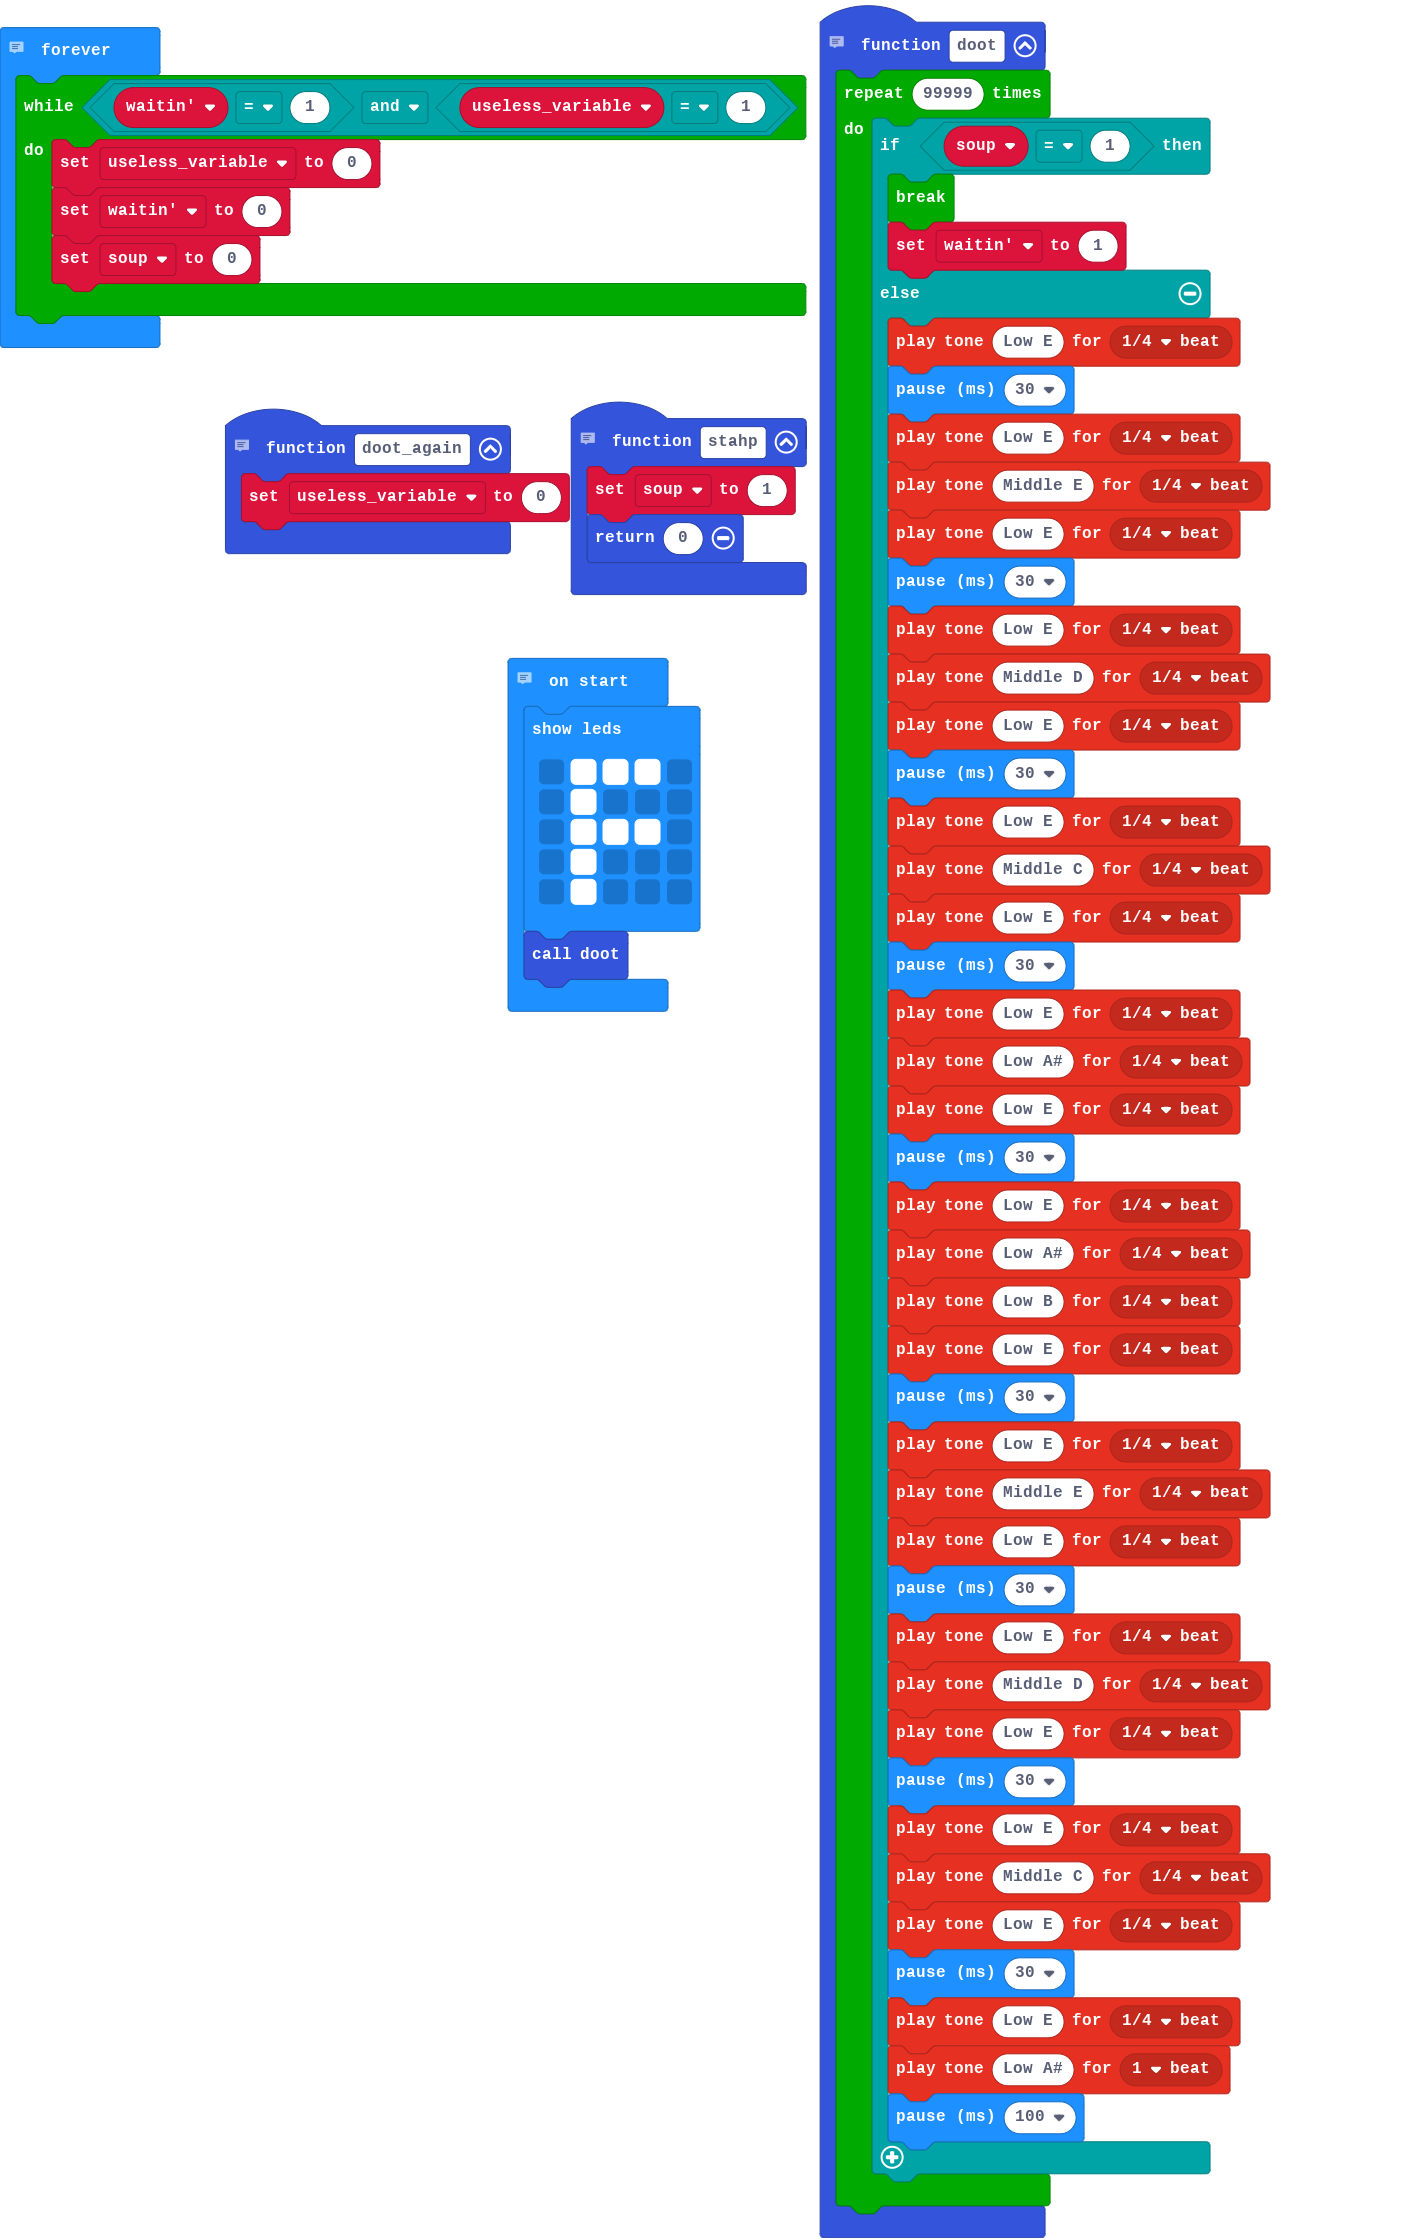
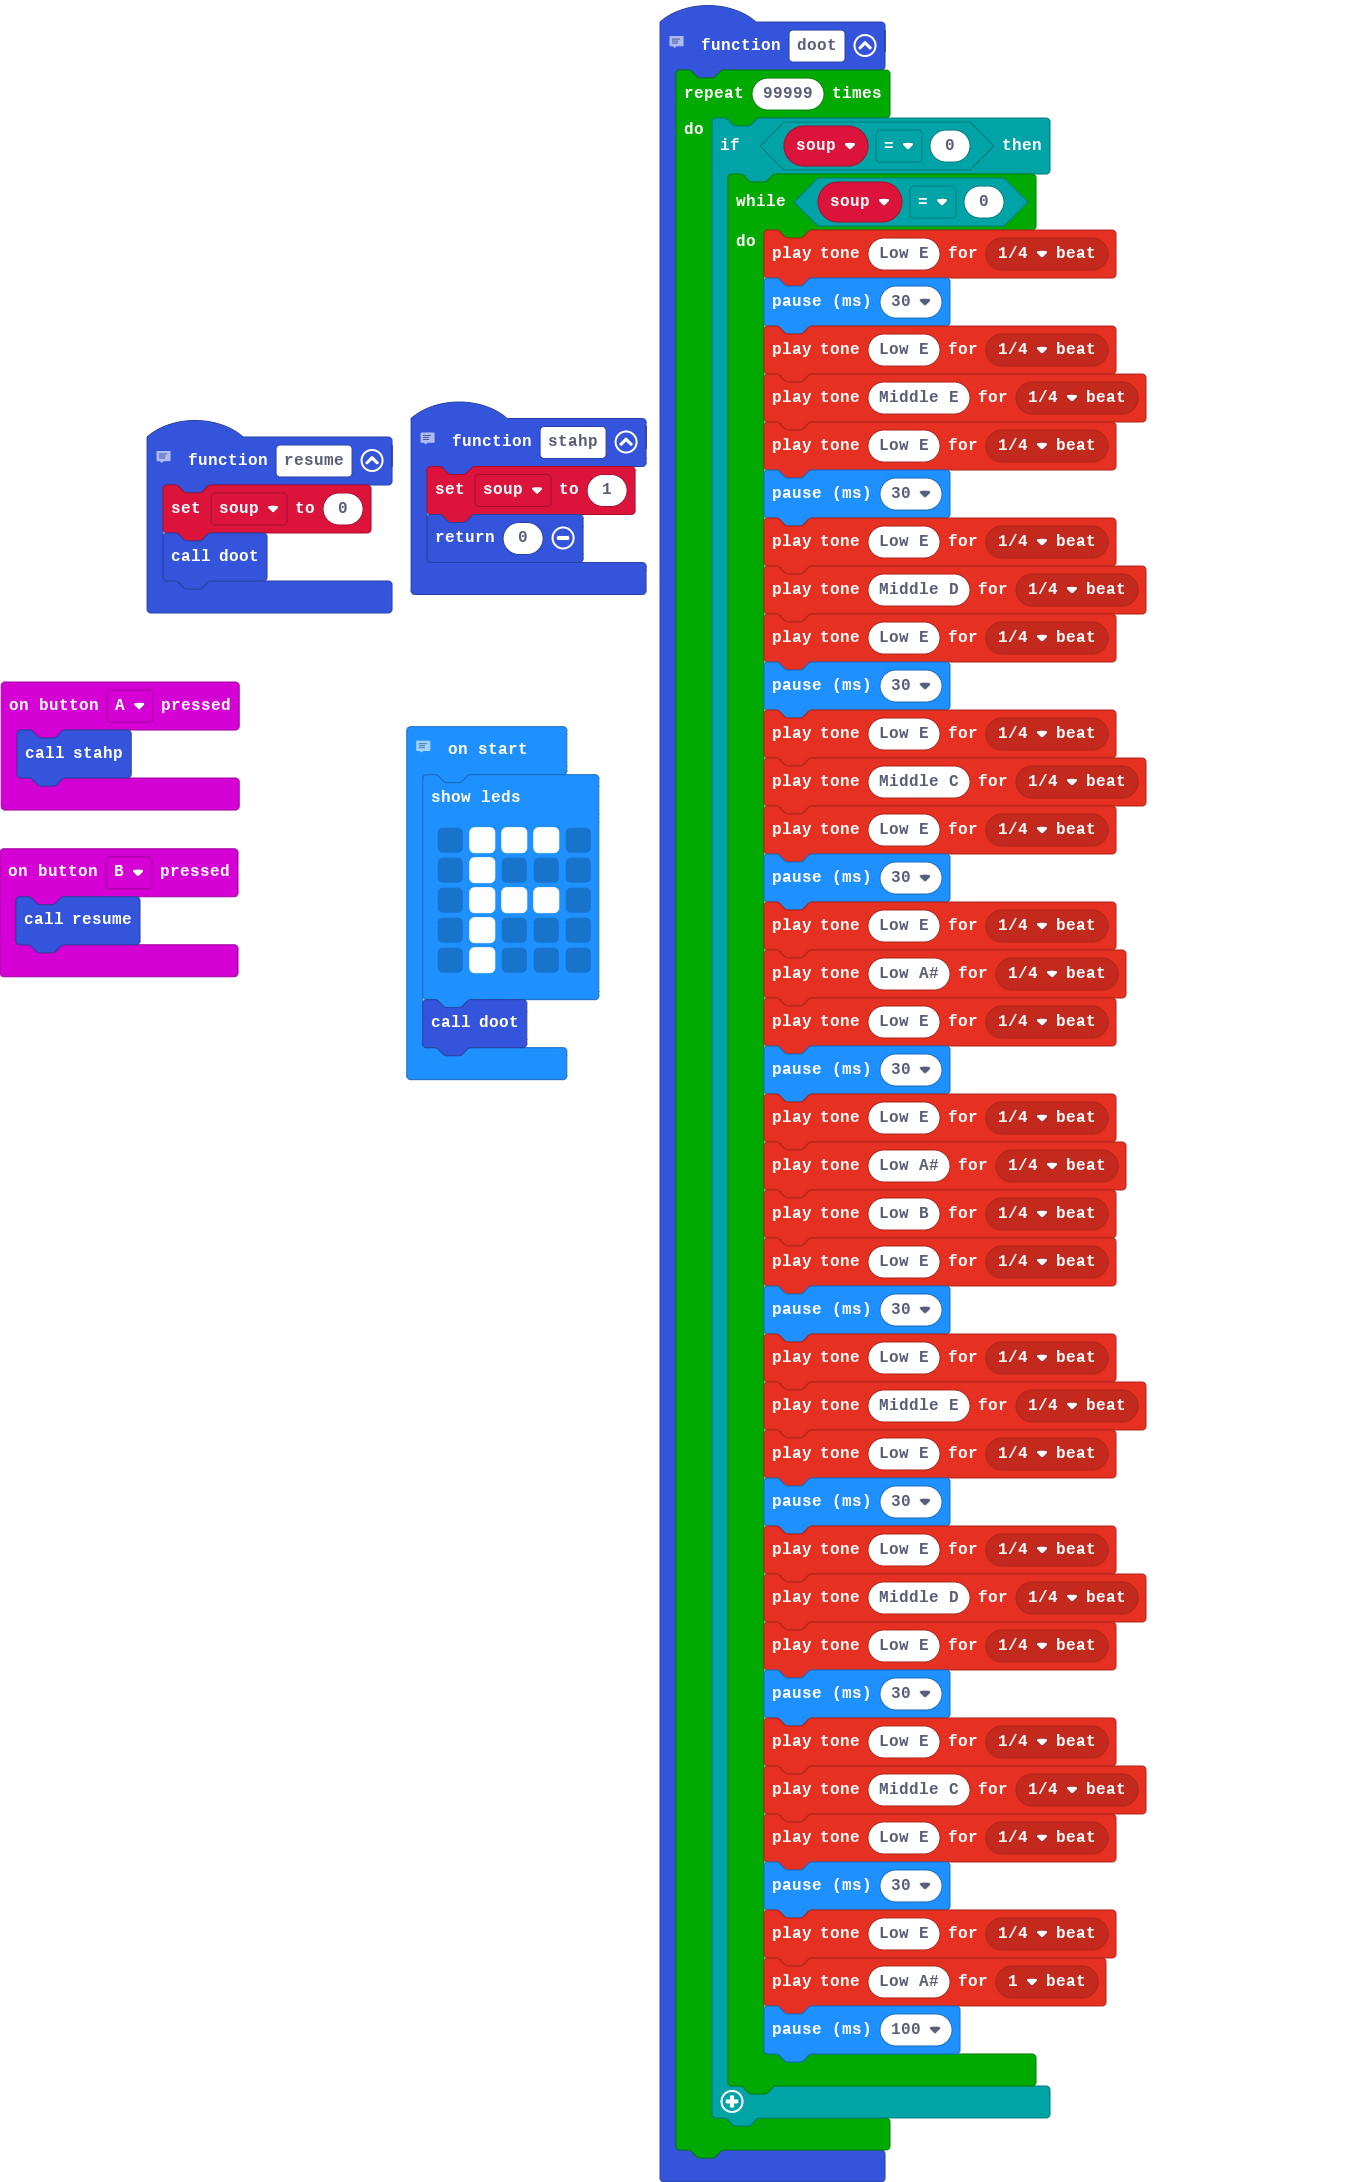
new everything.

diff --git a/main.ts b/main.ts
@@ -1,64 +1,68 @@
-// resume the main part of the "doot" Function
-function doot_again () {
-    useless_variable = 0
-}
 // play doot
 function doot () {
     for (let index = 0; index < 99999; index++) {
-        if (soup == 1) {
-            break;
-waitin = 1
-        } else {
-            music.playTone(165, music.beat(BeatFraction.Quarter))
-            basic.pause(30)
-            music.playTone(165, music.beat(BeatFraction.Quarter))
-            music.playTone(330, music.beat(BeatFraction.Quarter))
-            music.playTone(165, music.beat(BeatFraction.Quarter))
-            basic.pause(30)
-            music.playTone(165, music.beat(BeatFraction.Quarter))
-            music.playTone(294, music.beat(BeatFraction.Quarter))
-            music.playTone(165, music.beat(BeatFraction.Quarter))
-            basic.pause(30)
-            music.playTone(165, music.beat(BeatFraction.Quarter))
-            music.playTone(262, music.beat(BeatFraction.Quarter))
-            music.playTone(165, music.beat(BeatFraction.Quarter))
-            basic.pause(30)
-            music.playTone(165, music.beat(BeatFraction.Quarter))
-            music.playTone(233, music.beat(BeatFraction.Quarter))
-            music.playTone(165, music.beat(BeatFraction.Quarter))
-            basic.pause(30)
-            music.playTone(165, music.beat(BeatFraction.Quarter))
-            music.playTone(233, music.beat(BeatFraction.Quarter))
-            music.playTone(247, music.beat(BeatFraction.Quarter))
-            music.playTone(165, music.beat(BeatFraction.Quarter))
-            basic.pause(30)
-            music.playTone(165, music.beat(BeatFraction.Quarter))
-            music.playTone(330, music.beat(BeatFraction.Quarter))
-            music.playTone(165, music.beat(BeatFraction.Quarter))
-            basic.pause(30)
-            music.playTone(165, music.beat(BeatFraction.Quarter))
-            music.playTone(294, music.beat(BeatFraction.Quarter))
-            music.playTone(165, music.beat(BeatFraction.Quarter))
-            basic.pause(30)
-            music.playTone(165, music.beat(BeatFraction.Quarter))
-            music.playTone(262, music.beat(BeatFraction.Quarter))
-            music.playTone(165, music.beat(BeatFraction.Quarter))
-            basic.pause(30)
-            music.playTone(165, music.beat(BeatFraction.Quarter))
-            music.playTone(233, music.beat(BeatFraction.Whole))
-            basic.pause(100)
+        if (soup == 0) {
+            while (soup == 0) {
+                music.playTone(165, music.beat(BeatFraction.Quarter))
+                basic.pause(30)
+                music.playTone(165, music.beat(BeatFraction.Quarter))
+                music.playTone(330, music.beat(BeatFraction.Quarter))
+                music.playTone(165, music.beat(BeatFraction.Quarter))
+                basic.pause(30)
+                music.playTone(165, music.beat(BeatFraction.Quarter))
+                music.playTone(294, music.beat(BeatFraction.Quarter))
+                music.playTone(165, music.beat(BeatFraction.Quarter))
+                basic.pause(30)
+                music.playTone(165, music.beat(BeatFraction.Quarter))
+                music.playTone(262, music.beat(BeatFraction.Quarter))
+                music.playTone(165, music.beat(BeatFraction.Quarter))
+                basic.pause(30)
+                music.playTone(165, music.beat(BeatFraction.Quarter))
+                music.playTone(233, music.beat(BeatFraction.Quarter))
+                music.playTone(165, music.beat(BeatFraction.Quarter))
+                basic.pause(30)
+                music.playTone(165, music.beat(BeatFraction.Quarter))
+                music.playTone(233, music.beat(BeatFraction.Quarter))
+                music.playTone(247, music.beat(BeatFraction.Quarter))
+                music.playTone(165, music.beat(BeatFraction.Quarter))
+                basic.pause(30)
+                music.playTone(165, music.beat(BeatFraction.Quarter))
+                music.playTone(330, music.beat(BeatFraction.Quarter))
+                music.playTone(165, music.beat(BeatFraction.Quarter))
+                basic.pause(30)
+                music.playTone(165, music.beat(BeatFraction.Quarter))
+                music.playTone(294, music.beat(BeatFraction.Quarter))
+                music.playTone(165, music.beat(BeatFraction.Quarter))
+                basic.pause(30)
+                music.playTone(165, music.beat(BeatFraction.Quarter))
+                music.playTone(262, music.beat(BeatFraction.Quarter))
+                music.playTone(165, music.beat(BeatFraction.Quarter))
+                basic.pause(30)
+                music.playTone(165, music.beat(BeatFraction.Quarter))
+                music.playTone(233, music.beat(BeatFraction.Whole))
+                basic.pause(100)
+            }
         }
     }
 }
+input.onButtonPressed(Button.A, function () {
+    stahp()
+})
+// play the "doot" function after it was disabled by the "stahp" function
+function resume () {
+    soup = 0
+    doot()
+}
+input.onButtonPressed(Button.B, function () {
+    resume()
+})
 // stop the main functionality of the "doot" function
 function stahp () {
     soup = 1
     return 0
 }
 // boot-loader for the "doot" function
-let waitin = 0
 let soup = 0
-let useless_variable = 0
 basic.showLeds(`
     . # # # .
     . # . . .
@@ -67,11 +71,3 @@ basic.showLeds(`
     . # . . .
     `)
 doot()
-// forever script to make the "doot_again" function work
-basic.forever(function () {
-    while (waitin == 1 && useless_variable == 1) {
-        useless_variable = 0
-        waitin = 0
-        soup = 0
-    }
-})
